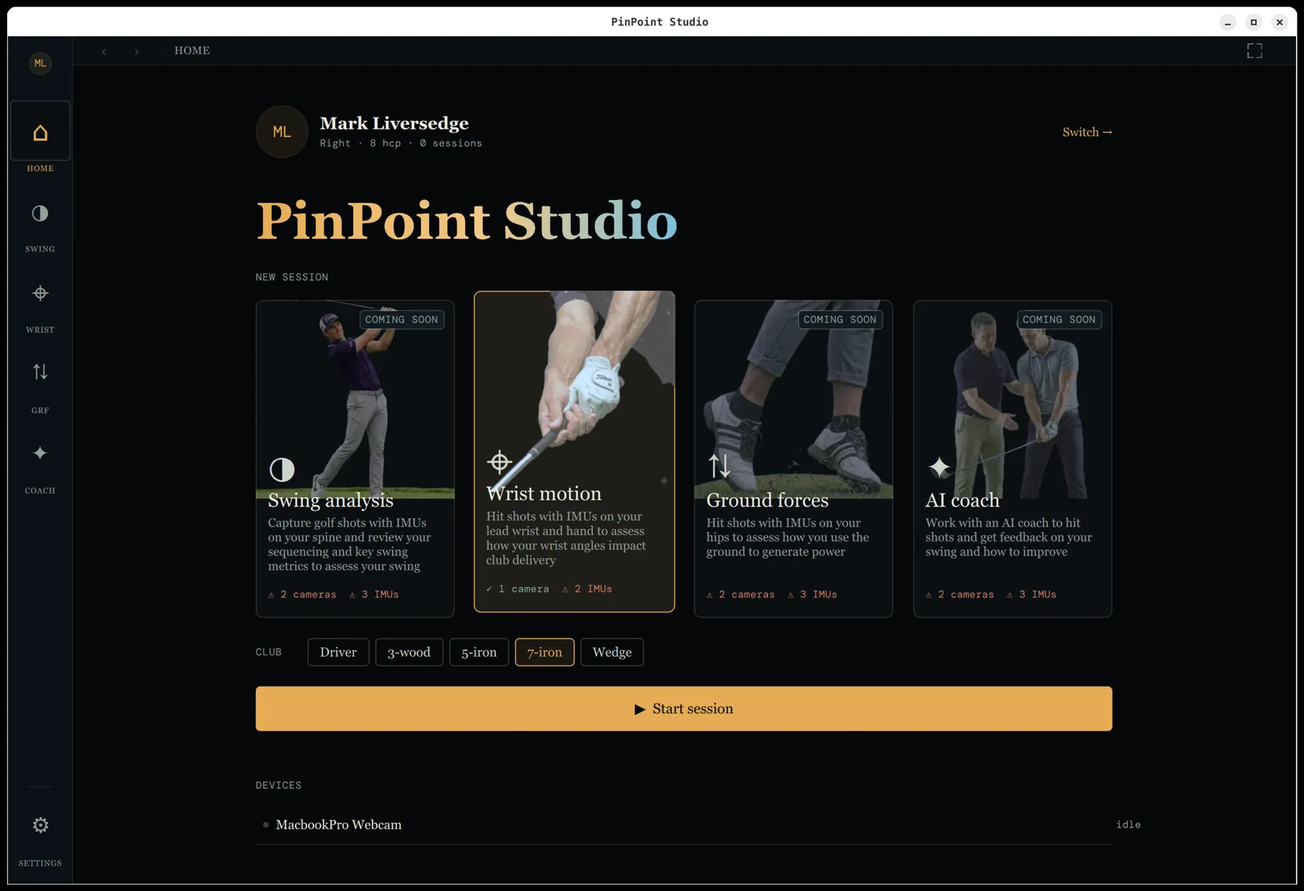
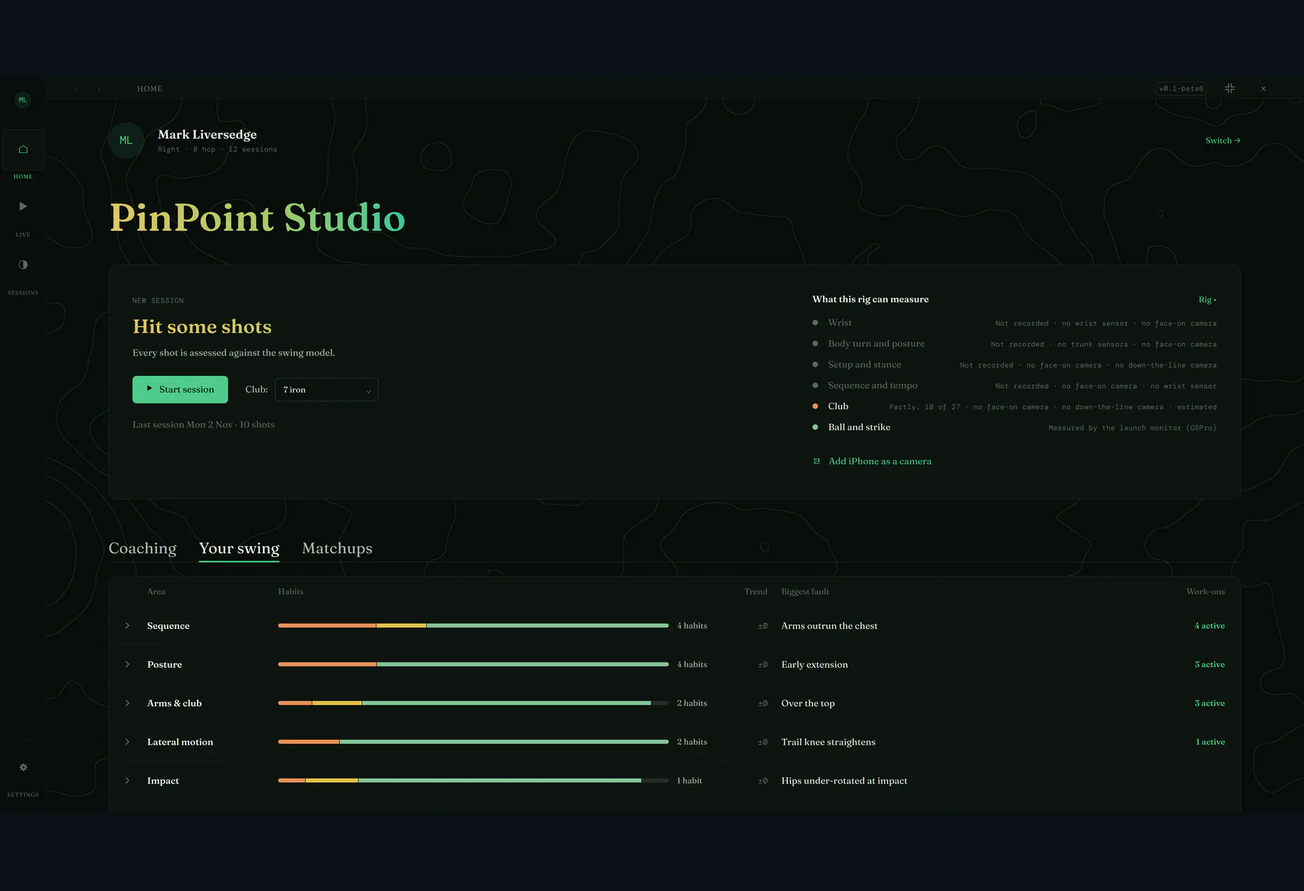
Bring the site up to beta 6 — one screen per job, a report to send, and the charts join the tour
Session modes are gone: the analysis section, the tour's Home caption and
the timeline now describe a session that records whatever the rig sees,
and Home's Coaching, Your swing and Matchups tabs in place of the
work-ons screen. New: the session report card, hip and chest sensors on
the Motion card, the Framing step, "How far can I trust this?" and the
Gates page, posture at P1-P8 and the swing plane, the faster analysis,
and Foresight Premier (marked as the build after beta 6).

Counts re-taken from the v0.1-beta6 source: 133 metrics (95 produced,
26 launch monitor, 12 planned); 186 conditions, 639 edges, 208 measures,
170 signals, 271 norms, 45 drills, 49 sources. The diagnosis section had
still quoted the beta 4 model while the timeline and spec quoted newer
counts; all three now agree.

New Home, Replay (with launch monitor) and Session diagnostics
screenshots from beta 6, and a ninth tour screen, Charts, showing a
session's posture curves. 16:9 captures are padded into the 1800x1230
frame like the 3-D swing and session shots before them.

diff --git a/index.html b/index.html
@@ -320,6 +320,7 @@
   .channel .ch-label i{width:9px;height:9px;border-radius:50%;box-shadow:0 0 9px currentColor}
   .channel p{font-size:15px;color:var(--text-2);line-height:1.58}
   @media(max-width:820px){.channels{grid-template-columns:1fr}}
+  @media(min-width:821px){.channels.two{grid-template-columns:repeat(2,1fr)}}
 
   /* ---- validation flow ---- */
   .vflow{display:grid;grid-template-columns:repeat(3,1fr);gap:14px}
@@ -436,8 +437,8 @@
         <h1 class="reveal" style="--d:1"><span class="small">Your launch monitor measures the ball.</span><em>We measure you.</em></h1>
         <p class="lede reveal" style="--d:2">If you run a studio, you've already got the cameras, the PC and the launch monitor — so the outcome of every shot is no mystery. What's missing is what your <strong>body</strong> actually did to produce it, and whether you're really making the moves your coach asked for. That's the gap PinPoint Studio fills — and why it's named for the room it's built for.</p>
         <p class="status-line reveal" style="--d:3">
-          <span class="badge dev"><i></i>Beta 4 — October 2026</span>
-          <span>Fourth beta out now · the first meant for other golfers · still validating · 1.0 targeted late 2026</span>
+          <span class="badge dev"><i></i>Beta 6 — November 2026</span>
+          <span>Sixth beta out now · a session report coaches can send · still validating · 1.0 targeted late 2026</span>
         </p>
         <div class="cta-row reveal" style="--d:4">
           <a class="btn solid" href="https://github.com/PinPoint-Golf/PinPointStudio" target="_blank" rel="noopener">View on GitHub</a>
@@ -473,27 +474,28 @@
   <section id="tour" class="wrap">
     <div class="kicker reveal"><span class="sig paper"></span>The app</div>
     <h2 class="reveal" style="--d:1">Inside <em>the studio.</em></h2>
-    <p class="sec-lede reveal" style="--d:2">A first look at the desktop app as it stands today — from setting up your kit, through replaying a swing beside its numbers and turning it round in 3-D, reading those numbers against a codified diagnostic model and seeing what a whole session adds up to, to marking swings up by hand for validation.</p>
+    <p class="sec-lede reveal" style="--d:2">A first look at the desktop app as it stands today — from setting up your kit, through replaying a swing beside its numbers, turning it round in 3-D and charting a whole session's swings together, reading those numbers against a codified diagnostic model and seeing what a whole session adds up to, to marking swings up by hand for validation.</p>
 
     <div id="studio" class="studio reveal" style="--d:3">
       <div class="studio-head">
         <span class="studio-mode"><i></i>Now viewing&nbsp;<b>Home</b></span>
-        <span class="studio-count"><b>1</b>&thinsp;/&thinsp;8</span>
+        <span class="studio-count"><b>1</b>&thinsp;/&thinsp;9</span>
       </div>
       <div class="studio-screen" role="button" tabindex="0" aria-label="View screenshots full screen">
-        <img class="shot active" src="assets/home.webp" width="1800" height="1230" alt="PinPoint Studio home screen — choosing a player, club and analysis mode to start a session.">
+        <img class="shot active" src="assets/home.webp" width="1800" height="1230" alt="PinPoint Studio home screen — the golfer at the top, a Start session card with the club to hit, a panel saying what this rig can measure today, and the Your swing tab counting habits in each area of the swing: sequence, posture, arms and club, lateral motion and impact, each with its trend, biggest fault and active work-ons.">
         <img class="shot" src="assets/settings.webp" width="1800" height="1230" loading="lazy" alt="PinPoint Studio settings — assigning and testing an IMU sensor before capture.">
-        <img class="shot" src="assets/replay.webp" width="1800" height="1230" loading="lazy" alt="PinPoint Studio replay — a captured swing played back beside its wrist metrics.">
+        <img class="shot" src="assets/replay.webp" width="1800" height="1230" loading="lazy" alt="PinPoint Studio replay — a gap-wedge swing at address from the down-the-line and face-on cameras, under the P1–P10 position ladder, beside the launch monitor panel for the same shot: club speed 77.6 mph, ball speed 86.1 mph, carry 105.4 yards, with each figure&#39;s session average and spread, and drawings of path, spin, loft and impact.">
         <img class="shot" src="assets/swing3d.webp" width="1800" height="1230" loading="lazy" alt="PinPoint Studio 3-D swing — a 7-iron swing rebuilt as a figure on a floor grid, seen face-on at the finish, with the club's path traced as a fan of shaft positions through the swing and the target line in orange; preset views for down the line, top, target side, behind and each camera sit above it.">
+        <img class="shot" src="assets/charts.webp" width="1800" height="1230" loading="lazy" alt="PinPoint Studio charts — the Posture view of a 31-shot gap-wedge session: spine forward bend, pelvis thrust, head rise, pelvis lift, head lift and trail knee flexion from address, every shot lined up on its P-positions from P1 to P10 with the middle half of the shots shaded, a headline saying where the shots part most, each curve's median peak and widest point listed beside the plot, and a How far can I trust this? line beneath.">
         <img class="shot" src="assets/diagnostics.webp" width="1800" height="1230" loading="lazy" alt="PinPoint Studio diagnostic model — the fault 'early extension' shown as a causal graph of what causes it and what it leads to, beside the measurement that detects it and the citation behind it.">
-        <img class="shot" src="assets/session.webp" width="1800" height="1230" loading="lazy" alt="PinPoint Studio session diagnostics — a finished fifteen-shot session read as ranked patterns: over the top on 15 of 15 measurable shots, flying trail elbow on 10 of 10, each card carrying the reading that fired it and how far outside its range it was, with limited thoracic rotation named as the likely driver of four of them.">
+        <img class="shot" src="assets/session.webp" width="1800" height="1230" loading="lazy" alt="PinPoint Studio session diagnostics — a finished 31-shot gap-wedge session read as seventeen patterns, led by the hips peaking after impact on 12 of 13 measurable shots and an out-of-order sequence on 10 of 13, each row with its run across the shots, trend, median and an explanation, under a How far can I trust this? line listing what could not be read.">
         <img class="shot" src="assets/markup.webp" width="1800" height="1227" loading="lazy" alt="PinPoint Studio markup — annotating swing positions by hand for validation.">
         <img class="shot" src="assets/system.webp" width="1800" height="1230" loading="lazy" alt="PinPoint Studio system view — built-in performance profiler showing CPU, memory, threads and per-model GPU use.">
       </div>
       <div class="tourbar">
         <button type="button" class="tstep" data-mode="Home" style="--c:#E6AC54" aria-current="true">
           <span class="tnum">01</span><h4>Home</h4>
-          <p>The starting point — pick a player, a club and an analysis mode to begin a session, and see what that player is working on.</p>
+          <p>The starting point — who's on, what the rig can capture today and a Start card, with Coaching, Your swing and Matchups tabs showing where that player stands.</p>
           <span class="tprog"><i></i></span>
         </button>
         <button type="button" class="tstep" data-mode="Settings" style="--c:#7BC0DB" aria-current="false">
@@ -503,7 +505,7 @@
         </button>
         <button type="button" class="tstep" data-mode="Replay" style="--c:#E07E64" aria-current="false">
           <span class="tnum">03</span><h4>Replay</h4>
-          <p>Play a captured swing back frame-by-frame, beside the key metrics it produced.</p>
+          <p>Play a captured swing back frame by frame from every camera, beside the launch monitor&#39;s reading of the same shot.</p>
           <span class="tprog"><i></i></span>
         </button>
         <button type="button" class="tstep" data-mode="3-D swing" style="--c:#7BC0DB" aria-current="false">
@@ -511,23 +513,28 @@
           <p>The swing rebuilt in three dimensions — rotate and zoom it freely, let the view track the body through the motion, and trace the club's path from address to finish. Snap to face-on, down the line, top, target side, behind or either camera's own view.</p>
           <span class="tprog"><i></i></span>
         </button>
+        <button type="button" class="tstep" data-mode="Charts" style="--c:#8AB389" aria-current="false">
+          <span class="tnum">05</span><h4>Charts</h4>
+          <p>Every shot of a session lined up on its P-positions and overlaid, with the typical swing and its spread — posture, sequence, club delivery and the wrist — and the readings, relations and kinds of swing behind them.</p>
+          <span class="tprog"><i></i></span>
+        </button>
         <button type="button" class="tstep" data-mode="Diagnostic model" style="--c:#f0c279" aria-current="false">
-          <span class="tnum">05</span><h4>Diagnostic model</h4>
+          <span class="tnum">06</span><h4>Diagnostic model</h4>
           <p>Swing faults codified from the literature and leading coaching texts — a causal network linking each fault to its causes, the measurements that detect it and the drills that correct it.</p>
           <span class="tprog"><i></i></span>
         </button>
         <button type="button" class="tstep" data-mode="Session diagnostics" style="--c:#E07E64" aria-current="false">
-          <span class="tnum">06</span><h4>Session diagnostics</h4>
+          <span class="tnum">07</span><h4>Session diagnostics</h4>
           <p>What a whole session says, not one swing — patterns ranked by how often they recur and how far out they were, each with the reading behind it, and the one cause that would explain the most of them.</p>
           <span class="tprog"><i></i></span>
         </button>
         <button type="button" class="tstep" data-mode="Markup" style="--c:#8AB389" aria-current="false">
-          <span class="tnum">07</span><h4>Markup</h4>
+          <span class="tnum">08</span><h4>Markup</h4>
           <p>Annotate swings by hand — the ground-truth labelling that underpins validation.</p>
           <span class="tprog"><i></i></span>
         </button>
         <button type="button" class="tstep" data-mode="System" style="--c:#F2EDE2" aria-current="false">
-          <span class="tnum">08</span><h4>System</h4>
+          <span class="tnum">09</span><h4>System</h4>
           <p>Built-in profiling of CPU, memory and threads — performance engineered in from the ground up, across Windows, macOS and Linux.</p>
           <span class="tprog"><i></i></span>
         </button>
@@ -610,9 +617,9 @@
       <div class="channel reveal" style="--d:1;--gw:rgba(123,192,219,.10)">
         <div class="ch-top">
           <div class="ch-label" style="color:var(--club)"><i style="background:var(--club)"></i>Cameras</div>
-          <span class="badge now"><i></i>New in beta 4</span>
+          <span class="badge now"><i></i>Built</span>
         </div>
-        <p>USB webcams or GenICam / FLIR industrial cameras — face-on and down-the-line. Every live feed carries an on-device pose skeleton. The <strong>down-the-line</strong> camera now pulls its weight: it tracks its own skeleton, shaft and ball, sees the posture face-on can't — forward bend, pelvis thrust, trail knee flex — and with face-on it puts the shaft in 3D, with no calibration. And one industrial camera can now take the <strong>impact</strong> view: cropped to a strip at the ball, a Chameleon3 runs at 591 fps on a 70 µs exposure, keeps just the frames around the strike, and loops them picture-in-picture beside the swing. With two cameras the body is now fitted in <strong>3-D</strong>, standing on the floor with the club at its recorded length, and hip and chest turn, X-factor and stretch are read from it with no sensors worn. The down-the-line view also reads shaft lie and over the top from the hand path. The cameras you choose, not a locked box.</p>
+        <p>USB webcams or GenICam / FLIR industrial cameras — face-on and down-the-line. Every live feed carries an on-device pose skeleton. The <strong>down-the-line</strong> camera now pulls its weight: it tracks its own skeleton, shaft and ball, sees the posture face-on can't — forward bend, pelvis thrust, trail knee flex — and with face-on it puts the shaft in 3D, with no calibration. And one industrial camera can now take the <strong>impact</strong> view: cropped to a strip at the ball, a Chameleon3 runs at 591 fps on a 70 µs exposure, keeps just the frames around the strike, and loops them picture-in-picture beside the swing. With two cameras the body is now fitted in <strong>3-D</strong>, standing on the floor with the club at its recorded length, and hip and chest turn, X-factor and stretch are read from it with no sensors worn. The down-the-line view also reads shaft lie and over the top from the hand path. Session setup has a <strong>Framing</strong> step that shows each camera live with the pose on and checks there's headroom at the top of the swing, and a swing whose video starts too late to see the strike is held back rather than analysed. The cameras you choose, not a locked box.</p>
       </div>
       <div class="channel reveal" style="--d:2;--gw:rgba(242,237,226,.08)">
         <div class="ch-top">
@@ -624,9 +631,9 @@
       <div class="channel reveal" style="--d:3;--gw:rgba(230,172,84,.10)">
         <div class="ch-top">
           <div class="ch-label" style="color:var(--pelvis)"><i style="background:var(--pelvis)"></i>Motion</div>
-          <span class="badge now"><i></i>Built</span>
+          <span class="badge now"><i></i>New in beta 6</span>
         </div>
-        <p>Off-the-shelf BLE IMUs (Witmotion WT901BLE67) at up to 200 Hz capture the wrist flexion, deviation and rotation a camera can't see cleanly — fused into joint angles on-device.</p>
+        <p>Off-the-shelf BLE IMUs (Witmotion WT901BLE67) at up to 200 Hz capture the wrist flexion, deviation and rotation a camera can't see cleanly — fused into joint angles on-device. Now they go on the <strong>hips and chest</strong> too: worn on the back, calibrated hands-free in session setup with spoken golf-term cues, and fed straight into the kinematic sequence.</p>
       </div>
       <div class="channel reveal" style="--d:4;--gw:rgba(138,179,137,.10)">
         <div class="ch-top">
@@ -640,7 +647,7 @@
           <div class="ch-label" style="color:var(--thorax)"><i style="background:var(--thorax)"></i>Launch monitor</div>
           <span class="badge now"><i></i>Built</span>
         </div>
-        <p>Studio plays the <strong>GSPro Connect</strong> server, so any monitor with an Open Connect bridge — a Garmin R10, Rapsodo MLM2PRO, SkyTrak+, PiTrac — connects straight to it; a Foresight GCQuad is read the other way, out of FSX2020. Either route, the readings are treated as a reference instrument: ball speed, spin, face and path recorded beside our own estimates, never replacing them. The Open Connect link is new, and so far proven against a simulator built from sixteen real clients rather than a device on a mat.</p>
+        <p>Studio plays the <strong>GSPro Connect</strong> server, so any monitor with an Open Connect bridge — a Garmin R10, Rapsodo MLM2PRO, SkyTrak+, PiTrac — connects straight to it; a Foresight GCQuad is read the other way, from the files FSX2020 writes — and, from the build after beta 6, Foresight Premier too, following the club selected there. Either route, the readings are treated as a reference instrument: ball speed, spin, face and path recorded beside our own estimates, never replacing them. The Open Connect link is new, and so far proven against a simulator built from sixteen real clients rather than a device on a mat.</p>
       </div>
       <div class="channel reveal" style="--d:6;--gw:rgba(148,160,158,.08)">
         <div class="ch-top">
@@ -692,11 +699,11 @@
     </div>
   </section>
 
-  <!-- four modes -->
+  <!-- analysis -->
   <section id="modes" class="wrap">
     <div class="kicker reveal"><span class="sig coral"></span>Analysis</div>
     <h2 class="reveal" style="--d:1">Four ways to see a swing.</h2>
-    <p class="sec-lede reveal" style="--d:2">PinPoint Studio is built around four analysis modes. Wrist Motion and full Swing Analysis both produce real output today — under validation, not yet released; Ground Force and the AI Coach follow on the same capture pipeline.</p>
+    <p class="sec-lede reveal" style="--d:2">There are no session modes to pick between any more: a session simply records whatever the rig in the bay can see, and can carry a focus. Swing analysis and wrist motion both produce real output today — under validation, not yet released; ground force and the AI coach follow on the same capture pipeline.</p>
     <div class="screens">
       <div class="screen reveal" style="--d:1">
         <div class="screen-top">
@@ -704,7 +711,7 @@
           <span class="badge now"><i></i>Built</span>
         </div>
         <h3>Swing Analysis</h3>
-        <p>Full-body kinematics from the captured frames — a 133-keypoint whole-body pose, shaft, club-head and ball tracking, and 88 swing metrics extracted today from a 126-metric catalogue: X-factor, club-head speed, lag, hip and shoulder rotation, tempo and more. Swing timing now speaks in P-positions: P1–P8 and P10 are resolved from the club track itself, arbitrated on what a reading <em>is</em> rather than which producer got there first. The whole-swing score is the piece still being built.</p>
+        <p>Full-body kinematics from the captured frames — a 133-keypoint whole-body pose, shaft, club-head and ball tracking, and 95 swing metrics extracted today from a 133-metric catalogue: X-factor, club-head speed, lag, hip and shoulder rotation, tempo, posture at every position and the swing plane — the shaft, hand and shoulder planes fitted across the golfer's day — and more. Swing timing now speaks in P-positions: P1–P8 and P10 are resolved from the club track itself, arbitrated on what a reading <em>is</em> rather than which producer got there first. The whole-swing score is the piece still being built.</p>
       </div>
       <div class="screen reveal" style="--d:2">
         <div class="screen-top">
@@ -712,7 +719,7 @@
           <span class="badge now"><i></i>Built</span>
         </div>
         <h3>Wrist Motion</h3>
-        <p>Lead-arm flexion/extension, radial/ulnar deviation and rotation read straight from the sensors, segmented across the swing and scored against coaching bands — the cupping, cocking and flipping a coach watches for. Works from our strap-on IMUs or from a HackMotion wG3, whose readings are kept beside ours rather than replacing them. The first full analyzer; its results are in validation now, not yet released.</p>
+        <p>Lead-arm flexion/extension, radial/ulnar deviation and rotation read straight from the sensors, segmented across the swing and scored against coaching bands — the cupping, cocking and flipping a coach watches for. Works from our strap-on IMUs or from a HackMotion wG3, whose readings are kept beside ours rather than replacing them. No longer a separate mode: the wrist sits in every shot and session it was recorded in, and gets its own page in the session report. The first full analyzer; its results are in validation now, not yet released.</p>
       </div>
       <div class="screen reveal" style="--d:1">
         <div class="screen-top">
@@ -738,27 +745,34 @@
     <div class="kicker reveal"><span class="sig amber"></span>Diagnosis</div>
     <h2 class="reveal" style="--d:1">From numbers to a <em>diagnosis.</em></h2>
     <p class="sec-lede reveal" style="--d:2">Measurements alone don't coach. PinPoint Studio codifies the swing-fault literature into a causal model, then reads every session against it — so a number out of range becomes a named fault, a likely cause and a drill to work on.</p>
-    <div class="channels">
+    <div class="channels two">
       <div class="channel reveal" style="--d:1;--gw:rgba(240,194,121,.10)">
         <div class="ch-top">
           <div class="ch-label" style="color:var(--pelvis)"><i style="background:var(--pelvis)"></i>Diagnostic model</div>
           <span class="badge now"><i></i>Built</span>
         </div>
-        <p>160 swing conditions linked by 391 causal edges, 140 measures, 133 detection signals and 183 reference corridors, plus 17 physical screens and a drill library — drawn from a 40-source bibliography, every claim carrying its provenance. Browsable and editable inside the app, causal graph and all.</p>
+        <p>186 swing conditions linked by 639 causal edges, 208 measures, 170 detection signals and 271 reference corridors, plus 17 physical screens and 45 drills — drawn from a 49-source bibliography, every claim carrying its provenance. The kinematic sequence, posture at every position and the swing plane are all part of it. Browsable and editable inside the app, causal graph and all — down to the words the session report prints.</p>
       </div>
       <div class="channel reveal" style="--d:2;--gw:rgba(123,192,219,.10)">
         <div class="ch-top">
           <div class="ch-label" style="color:var(--club)"><i style="background:var(--club)"></i>Session diagnostics</div>
           <span class="badge now"><i></i>Built</span>
         </div>
-        <p>A shot fires findings; only a session diagnoses. Evidence accumulates shot by shot into a session ledger, patterns that recur are held to honest statistics — within a club, and counting only the shots that could actually be assessed — and causes are ranked along the model's authored chains. Because it is cumulative by construction, the ledger <em>is</em> the session summary at close: a finished session can be reviewed shot by shot in its own right without rewinding the live one, and the live panel casts to a second screen for the athlete. The panel reads as three tabs, <em>This shot</em>, <em>Session</em> and <em>Watching</em>; <em>This shot</em> follows the swing you pick. Each session's top faults are carried to the home screen as the athlete's <strong>work-ons</strong>, and a fault clears only when a later session measured it and found it quiet.</p>
+        <p>A shot fires findings; only a session diagnoses. Evidence accumulates shot by shot into a session ledger, patterns that recur are held to honest statistics — within a club, and counting only the shots that could actually be assessed — and causes are ranked along the model's authored chains. Because it is cumulative by construction, the ledger <em>is</em> the session summary at close: a finished session can be reviewed shot by shot in its own right without rewinding the live one, and the live panel casts to a second screen for the athlete. The panel reads as three tabs, <em>This shot</em>, <em>Session</em> and <em>Watching</em>; <em>This shot</em> follows the swing you pick. Across sessions it adds up on the home screen: <em>Coaching</em> gives one focus to practise in plain words, <em>Your swing</em> counts the habits in each area of the swing with any fault opening in place, and <em>Matchups</em> shows the faults that travel together. A work-on clears only when a later session measured it and found it quiet.</p>
       </div>
       <div class="channel reveal" style="--d:3;--gw:rgba(138,179,137,.10)">
         <div class="ch-top">
           <div class="ch-label" style="color:var(--arm)"><i style="background:var(--arm)"></i>Honest by construction</div>
           <span class="badge now"><i></i>Built</span>
         </div>
-        <p>Every verdict carries its receipt — the measurement behind it and the corridor it broke — and a finding with no number behind it says so rather than passing as fact. A reading outside its corridor says so, and never claims it is fine; where something can't be read, the panel says exactly why. The error bars on the readings reach the verdicts too: each finding carries the probability that it really fired, and the likely driver says how firm it is and whether it was measured or only inferred. Today's corridors are literature-seeded; re-seating them from measured swings is what the validation corpus is for.</p>
+        <p>Every verdict carries its receipt — the measurement behind it and the corridor it broke — and a finding with no number behind it says so rather than passing as fact. A reading outside its corridor says so, and never claims it is fine; where something can't be read, the panel says exactly why. The error bars on the readings reach the verdicts too: each finding carries the probability that it really fired, and the likely driver says how firm it is and whether it was measured or only inferred. Every shot and session answers <em>How far can I trust this?</em>, a refused reading names the check that refused it, and the diagnostic model lists every check and how often it fires. Today's corridors are literature-seeded; re-seating them from measured swings is what the validation corpus is for.</p>
+      </div>
+      <div class="channel reveal" style="--d:4;--gw:rgba(224,126,100,.10)">
+        <div class="ch-top">
+          <div class="ch-label" style="color:var(--thorax)"><i style="background:var(--thorax)"></i>Session report</div>
+          <span class="badge now"><i></i>New in beta 6</span>
+        </div>
+        <p>A coach turns a session into a branded PDF — posture, wrist and club delivery pages, and a launch monitor appendix with every shot and the session's figures with their spread — and sends it to the player straight from their own mail account, or hands it to their mail app. What the report can't check, it says, in the model's own words.</p>
       </div>
     </div>
   </section>
@@ -767,7 +781,7 @@
   <section id="roadmap" class="wrap">
     <div class="kicker reveal"><span class="sig green"></span>Timeline</div>
     <h2 class="reveal" style="--d:1">Where it is, and where it's going.</h2>
-    <p class="sec-lede reveal" style="--d:2">PinPoint Studio reached its fourth beta in October 2026, the first one meant for golfers other than its author: it now tells you what to work on, and says how sure it is. Capture — cameras, phones, wrist sensors and a launch monitor — full-swing metric extraction, the kinematic sequence, the diagnostic model and session diagnostics are all working, and the down-the-line camera now counts; the whole-swing score, ball flight and club data from the impact camera come next. It is still a beta, and we're still proving the numbers.</p>
+    <p class="sec-lede reveal" style="--d:2">PinPoint Studio reached its sixth beta on 1 November 2026: Home is rebuilt around one screen per job with no session modes to choose, coaches can send a branded session report, the hip and chest sensors join the kinematic sequence, and every refused reading says which check refused it and why. Capture — cameras, phones, wrist sensors and a launch monitor — full-swing metric extraction, the kinematic sequence, the diagnostic model and session diagnostics are all working, and the down-the-line camera now counts; the whole-swing score, ball flight and club data from the impact camera come next. It is still a beta, and we're still proving the numbers.</p>
     <div class="horizon">
       <div class="hzcol c-now reveal" style="--d:1">
         <div class="hz-head"><span class="badge now"><i></i>Now</span><h3>Working</h3></div>
@@ -776,22 +790,28 @@
           <li>Down-the-line camera with its own tracking — posture face-on can't see, and the shaft in 3D where the two views' shaft planes cross</li>
           <li>Impact camera — an industrial camera cropped to a strip at the ball at 591 fps, the frames around the strike looped picture-in-picture</li>
           <li>iPhone as a capture camera via the PinPoint Capture companion app, over WiFi or USB</li>
-          <li>Post-shot analysis — 133-keypoint whole-body pose, shaft, club-head &amp; ball tracking</li>
+          <li>Post-shot analysis — 133-keypoint whole-body pose, shaft, club-head &amp; ball tracking, its stages run in parallel so a studio re-analysis takes about 8 seconds, down from 19</li>
           <li>Markerless club tracking — a bare steel shaft read as its own ruler, so irons need no tape (graphite woods &amp; hybrids still do)</li>
           <li>Error bars on the club numbers — every shaft reading and metric carries a &plusmn; calibrated against 996 hand-marked frames, says whether it was checked or only propagated, and flags a reading that may be on the wrong thing; a club track the evidence contradicts is refused, with its reason</li>
-          <li>88 swing metrics extracted today — X-factor, club-head speed, lag, rotation, tempo, the kinematic sequence link by link, and from down the line shaft lie, over the top and posture off the outline of the body</li>
-          <li>Kinematic sequence chart — pelvis, chest, lead arm and club speeds from IMUs, one camera or two, read through to P8, with a tile setting the order they peaked in beside the order they should, each peak as a percentage of a professional's</li>
+          <li>95 swing metrics extracted today — X-factor, club-head speed, lag, rotation, tempo, the kinematic sequence link by link, and from down the line shaft lie, over the top and posture off the outline of the body</li>
+          <li>Posture at every position, P1&ndash;P8, against good players by pattern — including loss of posture and poor posture at address</li>
+          <li>Club delivery — the swing plane graded as an absolute angle back and down, with the hand plane and the shoulder plane at address, fitted across the golfer's day</li>
+          <li>Kinematic sequence chart — pelvis, chest, lead arm and club speeds from IMUs on the arm, hips and chest, one camera or two, read through to P8, with a tile setting the order they peaked in beside the order they should, each peak as a percentage of a professional's</li>
           <li>Calibrated two-camera 3D body — a jointed skeleton standing on the floor, with hip and chest turn and X-factor read from it without IMUs</li>
           <li>3-D swing view — rotate, zoom, track and trace the swing from any angle, or snap to either camera's view; now a panel on the Wrist screen too</li>
           <li>Coach lines placed automatically — head circle, hip lines, the rear line and the address plane — and a synthetic club on replay</li>
           <li>P-position timeline — P1–P8 and P10 resolved from the club track</li>
           <li>Live lead-arm wrist analysis, scored against coaching bands</li>
           <li>HackMotion wG3 wrist sensor as the criterion instrument, published in ISB convention</li>
-          <li>Diagnostic model — 182 conditions, 622 causal edges, 259 norms — editable in-app</li>
+          <li>Diagnostic model — 186 conditions, 639 causal edges, 271 norms — editable in-app, down to the report's words</li>
+          <li>&ldquo;How far can I trust this?&rdquo; on every shot and session — a refused reading names the check that refused it, everywhere it appears</li>
           <li>Session diagnostics — a cumulative evidence ledger, ranked causes, cast to a second display; This shot, Session and Watching tabs, each finding carrying the probability it really fired</li>
-          <li>Work-ons on the home screen — each session's top faults, causes before symptoms, added up across sessions; a fault clears only when a later session measured it quiet</li>
+          <li>Home rebuilt — a Start card, what the rig can capture, and Coaching, Your swing and Matchups tabs; one focus in plain words, faults opening in place, a work-on cleared only when a later session measured it quiet</li>
+          <li>Session report — a branded PDF with posture, wrist and club delivery pages and a launch monitor appendix, sent from the coach's own mail account</li>
+          <li>Session setup — one flow for every session, its steps taken from the hardware connected, with a Framing check and hands-free hip and chest sensor calibration</li>
+          <li>Sessions table — filters, multi-select and bulk actions, and the devices each session was recorded with</li>
           <li>Session review — a finished session read back shot by shot, without rewinding the live one</li>
-          <li>Launch monitors — GSPro Open Connect (R10, MLM2PRO, SkyTrak+, PiTrac&hellip;) and the Foresight GCQuad — measured values beside our estimates</li>
+          <li>Launch monitors — GSPro Open Connect (R10, MLM2PRO, SkyTrak+, PiTrac&hellip;) and the Foresight GCQuad through FSX2020, with Foresight Premier in the build after beta 6 — measured values beside our estimates</li>
           <li>Shot detection — manual, IMU-impact and acoustic — with per-shot capture, replay &amp; export</li>
           <li>Swing files as .ppsw &mdash; a documented binary format, lossless and about a tenth the size, with MIT C++ and Python readers</li>
           <li>Archiving &mdash; finished sessions out of the library and back, verified byte for byte, with the hours of capture you have left</li>
@@ -828,15 +848,15 @@
     <h2 class="reveal" style="--d:1">Built like an instrument.</h2>
     <div class="specwrap reveal" style="--d:2">
       <div class="specrow"><span class="k">Cameras</span><span class="v">USB webcam &rarr; GenICam / FLIR industrial &middot; impact camera at 591 fps &middot; iPhone via PinPoint Capture</span></div>
-      <div class="specrow"><span class="k">IMUs</span><span class="v">Witmotion WT901BLE67 &middot; BLE &middot; up to 200 Hz</span></div>
+      <div class="specrow"><span class="k">IMUs</span><span class="v">Witmotion WT901BLE67 &middot; BLE &middot; up to 200 Hz &middot; lead arm, hips &amp; chest</span></div>
       <div class="specrow"><span class="k">Wrist sensor</span><span class="v">HackMotion wG3 &middot; BLE &middot; ISB convention &middot; via <a class="ulink" href="https://github.com/PinPoint-Golf/libwrist" target="_blank" rel="noopener">libwrist</a> (MIT)</span></div>
       <div class="specrow"><span class="k">Pose</span><span class="v">MoveNet (live) &middot; ViTPose 133-keypoint whole-body (analysis)</span></div>
       <div class="specrow"><span class="k">Wrist kinematics</span><span class="v">IMU-quaternion joint angles, per P-position</span></div>
       <div class="specrow"><span class="k">Swing timing</span><span class="v">P-position ladder, P1&ndash;P8 and P10 (P9 deferred)</span></div>
-      <div class="specrow"><span class="k">Metrics</span><span class="v">126-metric catalogue &middot; 88 produced today</span></div>
-      <div class="specrow"><span class="k">Diagnostics</span><span class="v">182 conditions &middot; 622 causal edges &middot; 46 cited sources</span></div>
+      <div class="specrow"><span class="k">Metrics</span><span class="v">133-metric catalogue &middot; 95 produced today</span></div>
+      <div class="specrow"><span class="k">Diagnostics</span><span class="v">186 conditions &middot; 639 causal edges &middot; 49 cited sources</span></div>
       <div class="specrow"><span class="k">Swing file</span><span class="v">.ppsw &mdash; chunked binary, lossless, ~3 MB a swing &middot; open spec &middot; C++ &amp; Python readers via <a class="ulink" href="https://github.com/PinPoint-Golf/libppswing" target="_blank" rel="noopener">libppswing</a> (MIT)</span></div>
-      <div class="specrow"><span class="k">Launch monitor</span><span class="v">GSPro Open Connect &mdash; R10, MLM2PRO, SkyTrak+, PiTrac &mdash; via <a class="ulink" href="https://github.com/PinPoint-Golf/libgspro" target="_blank" rel="noopener">libgspro</a> (MIT) &middot; Foresight GCQuad via FSX2020</span></div>
+      <div class="specrow"><span class="k">Launch monitor</span><span class="v">GSPro Open Connect &mdash; R10, MLM2PRO, SkyTrak+, PiTrac &mdash; via <a class="ulink" href="https://github.com/PinPoint-Golf/libgspro" target="_blank" rel="noopener">libgspro</a> (MIT) &middot; Foresight GCQuad via FSX2020 or Foresight Premier</span></div>
       <div class="specrow"><span class="k">Companion app</span><span class="v">PinPoint Capture &middot; iPhone, iOS 18+ &middot; App Store with 1.0, late 2026 &middot; MIT <span class="soon">&middot; Android planned, not soon</span></span></div>
       <div class="specrow"><span class="k">Phone capture</span><span class="v">1080p at 120&ndash;240 fps &middot; HEVC &middot; 10 s rolling buffer &middot; 30 fps live preview</span></div>
       <div class="specrow"><span class="k">Phone link</span><span class="v">PPCP over WiFi or USB &middot; clock &sigma; 1.2 ms WiFi, 0.3 ms cable &middot; open spec, MIT reference library</span></div>
@@ -894,7 +914,7 @@
     <span id="register" aria-hidden="true"></span>
     <span class="eyebrow reveal">Pre-release &middot; nothing to sign</span>
     <h2 class="reveal" style="--d:1">It's in beta — and it's yours.</h2>
-    <p class="reveal" style="--d:2">PinPoint Studio reached its fourth beta in October 2026, with a 1.0 targeted for late in the year — once we're confident the measurements can be relied upon. There's no form to fill in and no list to join: take the build, run it, keep it. It's GPL&nbsp;v2 and built in the open — for golfers, coaches and researchers alike. Watch the repo if you want to hear when something lands, and bring questions to the issue tracker.</p>
+    <p class="reveal" style="--d:2">PinPoint Studio reached its sixth beta on 1 November 2026, with a 1.0 targeted for late in the year — once we're confident the measurements can be relied upon. There's no form to fill in and no list to join: take the build, run it, keep it. It's GPL&nbsp;v2 and built in the open — for golfers, coaches and researchers alike. Watch the repo if you want to hear when something lands, and bring questions to the issue tracker.</p>
     <div class="cta-row reveal" style="--d:3">
       <a class="btn solid" href="https://github.com/PinPoint-Golf/PinPointStudio/releases/latest" target="_blank" rel="noopener">Download the latest beta &#8599;</a>
       <a class="btn" href="https://github.com/PinPoint-Golf/PinPointStudio" target="_blank" rel="noopener">View on GitHub</a>
